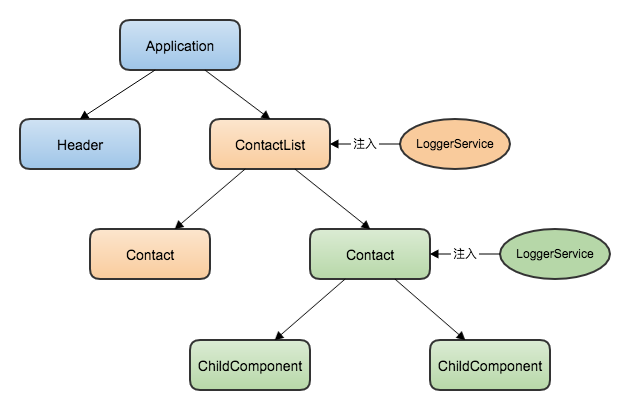
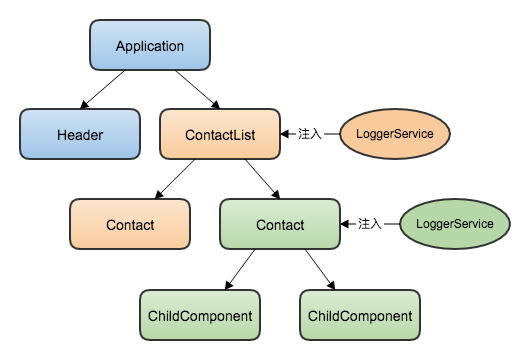
update 2.1 change images for injector & sub-router

diff --git a/chapters/2.1.md b/chapters/2.1.md
@@ -249,15 +249,23 @@ Angular作为单页应用框架，前端路由功能必不可少。在Angular里
 
 ![](https://raw.githubusercontent.com/gf-rd/gf-angular2-book/master/_images/chapter2-1/router.png)
 
-原来的组件树中多了一个路由组件（Angular对应的组件为`router-outlet`），类似于”插座“功能，根据当前的URL路径，匹配插入对应的组件节点。这就是Angular路由最基本的功能，实现主体内容（页面）的刷新。
+原来的组件树中多了一个路由组件（组件标签名为`<router-outlet>`），`Application`组件的模板大致如下：
 
-路由组件还支持多重嵌套，实现子路由功能。如通话记录需要新增筛选tab功能，可选全部及未接来电。
+```
+<div>
+  <header></header>
+  <router-outlet></router-outlet>
+  <footer></footer>
+</div>
+```
+
+路由组件`router-outlet`起着类似于”插座“功能，根据当前的URL路径，匹配插入对应的组件节点。这就是Angular路由最基本的功能，实现主体内容（页面）的刷新。路由组件还支持多重嵌套，实现子路由功能。如通话记录需要新增筛选tab功能，筛选全部及未接来电，修改路由配置如下：
 
 ```
 [
   { path: 'list', component: ContactListComponent},
   { path: 'record', component: RecordListComponent, children: [
-      { path: '', component: AllRecordsComponent },
+      { path: '', component: AllRecordsComponent }, //
       { path: 'miss', component: MissRecordsComponent }
     ] 
   },
@@ -265,11 +273,11 @@ Angular作为单页应用框架，前端路由功能必不可少。在Angular里
 ]
 ```
 
-注意当path值为空时，表示默认路由，所以当路由至`http://www.abc.com/record`时，显示的是`AllRecordsComponent`组件视图，修改通话记录组件结构如下：
+`record`记录新增了一个`children`的对象，用以记录子路由的信息。注意当path值为空时，表示默认路由，所以当路由至`http://www.abc.com/record`时，显示的是`AllRecordsComponent`组件视图，通话记录组件组件结构变成下面这样：
 
 ![](https://raw.githubusercontent.com/gf-rd/gf-angular2-book/master/_images/chapter2-1/sub-router.png)
 
-路由还支持路径参数，如`http://www.abc.com/list/123`，`123`为联系人ID，实现类似Restfule风格的路由系统。另外路由组件除了支持嵌套使用，同一层节点还可以放置多个路由组件，实现从属路由功能，更多的路由功能会在路由章节一一剖析。
+路由还支持路径参数，如`http://www.abc.com/list/123`，`123`为联系人ID，实现类似Restful风格的URL系统。另外路由组件除了支持嵌套使用，同一层节点还可以放置多个路由组件，实现从属路由功能，更多更详细的路由功能会在路由章节一一剖析。
 
 ## 总结
 
